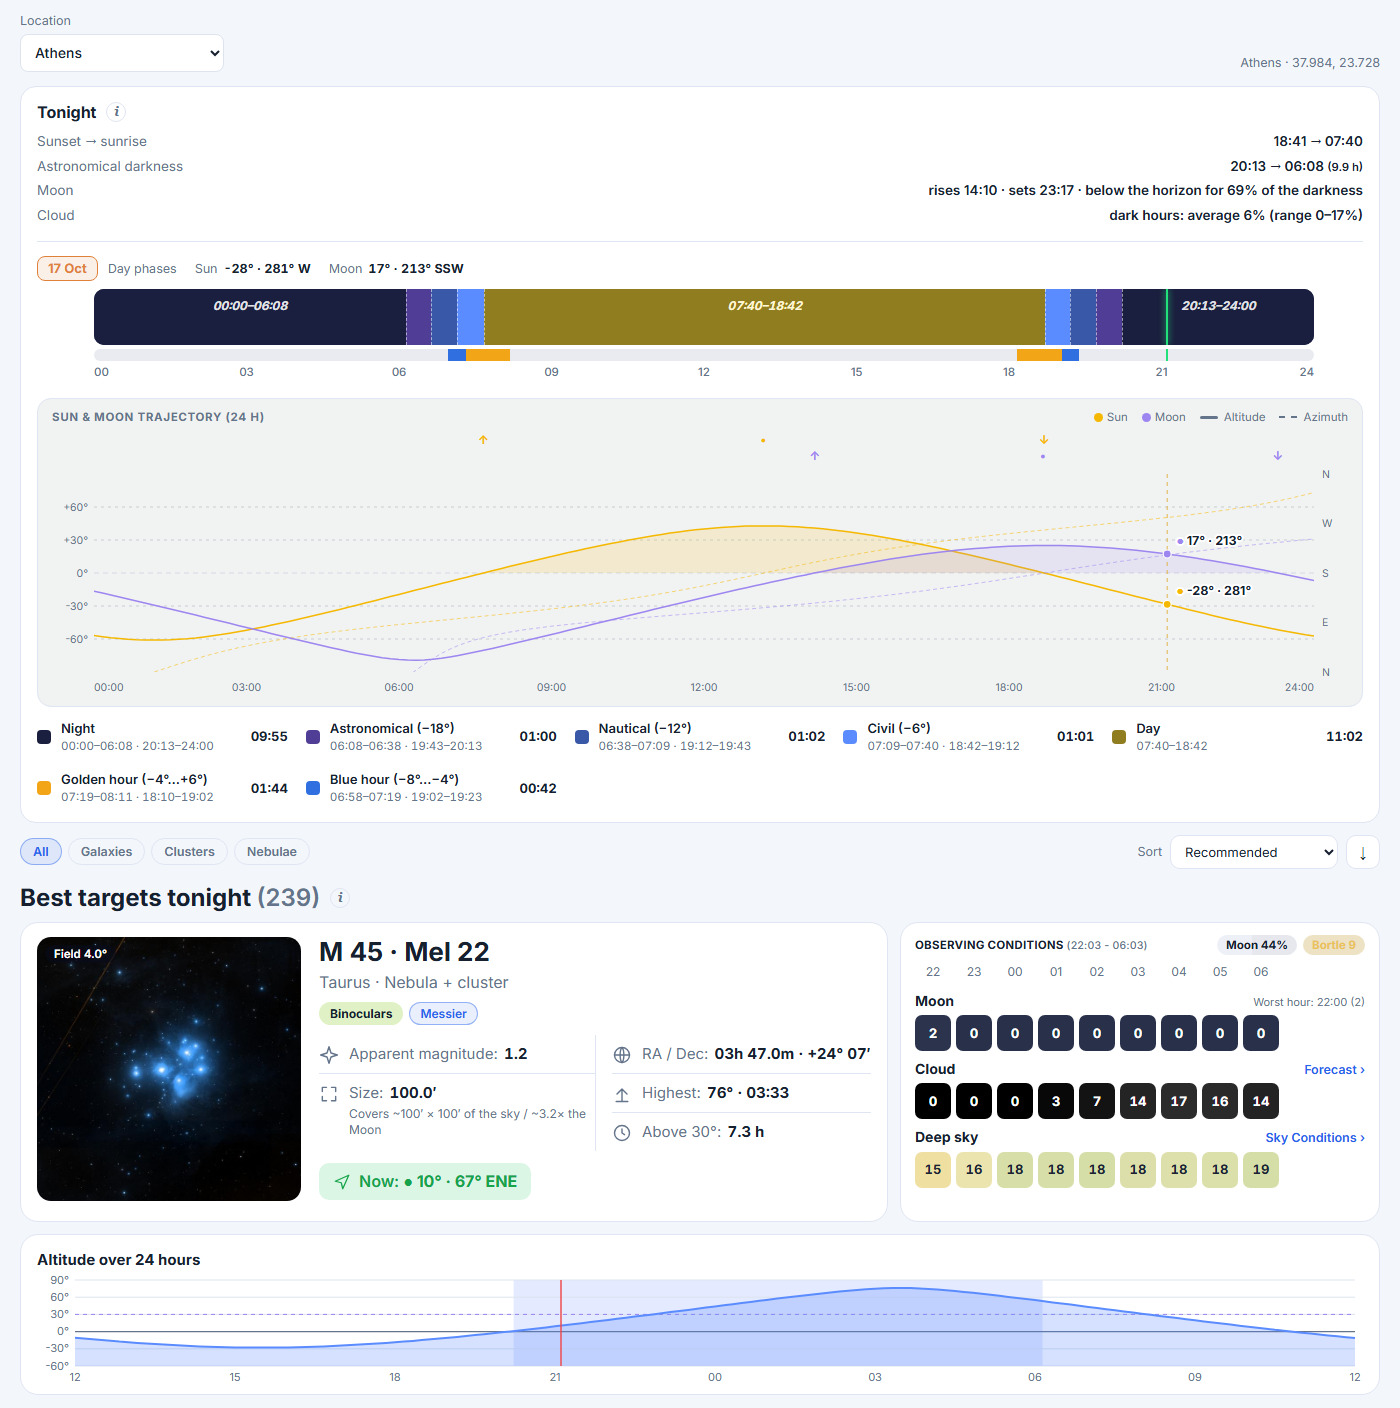
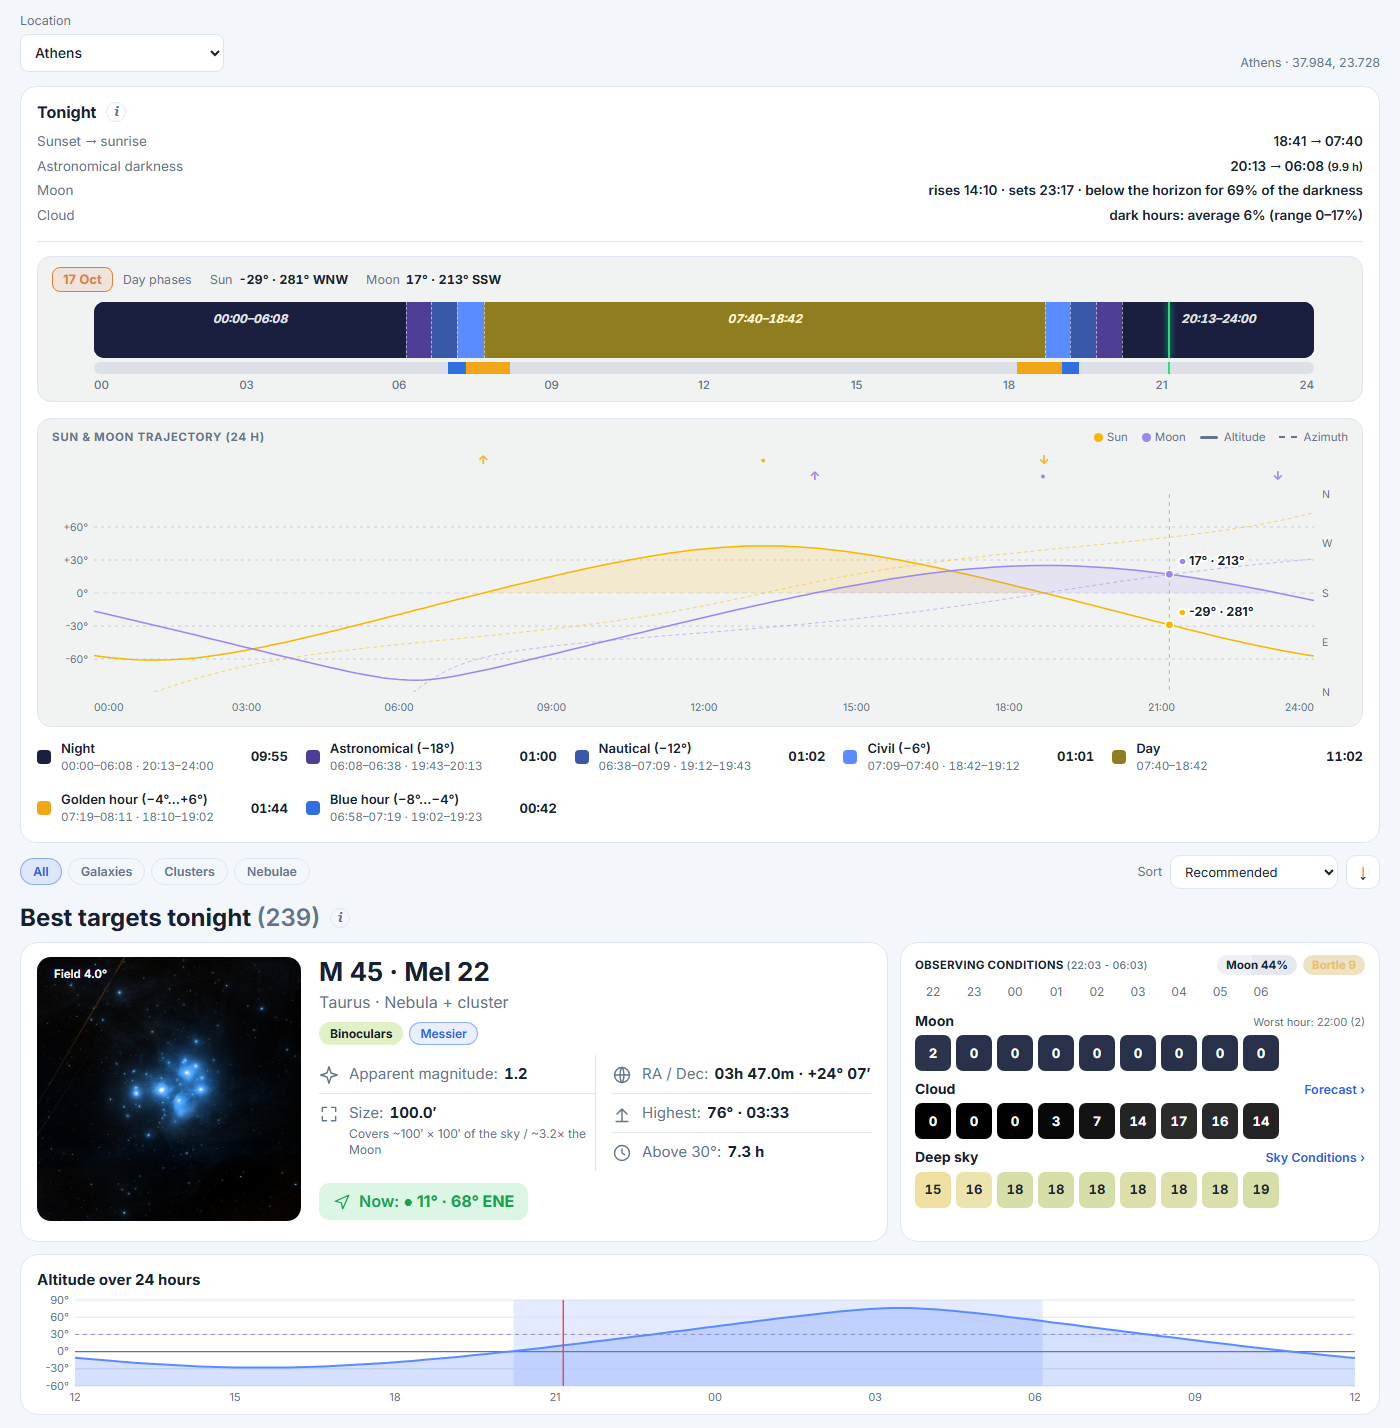
DSO phases bar in a card with the same fill as the trajectory chart (hours still line up)

diff --git a/js/dso.js b/js/dso.js
@@ -363,10 +363,10 @@ const Dso = (() => {
       const parts = arr.filter((g) => g.c === c), total = parts.reduce((a, g) => a + (g.b - g.a), 0);
       return `<li><i class="dot ph-${c}"></i><div><b>${esc(t('dso.ph.' + c))}</b><span class="rg">${parts.length ? parts.map((g) => `${fmMin(g.a)}–${fmMin(g.b)}`).join(' · ') : '–'}</span></div><span class="tot">${total ? fmMin(total) : '–'}</span></li>`;
     };
-    return `<div class="dp"><div class="dp-h"><span class="dp-date">${esc(dateTxt)}</span><small>${esc(t('dso.ph.title'))}</small><span class="dp-key"><span class="k">${esc(t('dso.ph.sun'))} <b>${bodyPos(d.now.sunAlt, d.now.sunAz)}</b></span><span class="k">${esc(t('dso.ph.moon'))} <b>${bodyPos(d.now.moonAlt, d.now.moonAz)}</b></span></span></div>
+    return `<div class="dp"><section class="tj-card ph-card"><div class="dp-h"><span class="dp-date">${esc(dateTxt)}</span><small>${esc(t('dso.ph.title'))}</small><span class="dp-key"><span class="k">${esc(t('dso.ph.sun'))} <b>${bodyPos(d.now.sunAlt, d.now.sunAz)}</b></span><span class="k">${esc(t('dso.ph.moon'))} <b>${bodyPos(d.now.moonAlt, d.now.moonAz)}</b></span></span></div>
       <div class="dp-bar">${bar}<u class="now" style="left:${clamp((d.nowMin / 1440) * 100, 0, 100).toFixed(2)}%"></u></div>
       <div class="dp-gb">${gbar}<u class="now" style="left:${clamp((d.nowMin / 1440) * 100, 0, 100).toFixed(2)}%"></u></div>
-      <div class="dp-axis">${axis}</div>
+      <div class="dp-axis">${axis}</div></section>
       <div class="tj-grid one">${trajChart(d, Math.max(300, (S.chartW || 1000) - 30), (S.chartW || 1000) < 520 ? 240 : 270)}</div>
       <ul class="dp-leg">${PH_ORDER.map((c) => leg(c, d.segs)).join('')}${leg('golden', d.gsegs)}${leg('blue', d.gsegs)}</ul></div>`;
   }

diff --git a/index.html b/index.html
@@ -9,7 +9,7 @@
 <link rel="preconnect" href="https://fonts.googleapis.com"><link rel="preconnect" href="https://fonts.gstatic.com" crossorigin>
 <link rel="stylesheet" href="https://fonts.googleapis.com/css2?family=Inter:wght@400;500;600;700&display=swap&subset=greek">
 <link rel="stylesheet" href="https://unpkg.com/leaflet@1.9.4/dist/leaflet.css">
-<link rel="stylesheet" href="css/style.css?v=20261129">
+<link rel="stylesheet" href="css/style.css?v=20261130">
 </head>
 <body>
 <header class="topbar">
@@ -252,11 +252,11 @@
 <footer data-i18n-html="footer.html"></footer>
 
 <script src="https://unpkg.com/leaflet@1.9.4/dist/leaflet.js"></script>
-<script src="js/i18n.js?v=20261129"></script>
-<script src="js/icons.js?v=20261129"></script>
-<script src="js/app.js?v=20261129"></script>
-<script src="js/astro.js?v=20261129"></script>
-<script src="js/sunset.js?v=20261129"></script>
-<script src="js/dso.js?v=20261129"></script>
+<script src="js/i18n.js?v=20261130"></script>
+<script src="js/icons.js?v=20261130"></script>
+<script src="js/app.js?v=20261130"></script>
+<script src="js/astro.js?v=20261130"></script>
+<script src="js/sunset.js?v=20261130"></script>
+<script src="js/dso.js?v=20261130"></script>
 </body>
 </html>

diff --git a/css/style.css b/css/style.css
@@ -981,3 +981,9 @@ select, input[type=text], input[type=number], input[type=search] { font: inherit
 .tj-svg .nw { stroke-width: 1; } .tj-svg .hz, .tj-svg .gl { stroke-width: .8; }
 .dp-bar, .dp-gb, .dp-axis { margin-left: 57px; margin-right: 49px; }
 @media (max-width: 900px) { .dp-bar, .dp-gb, .dp-axis { margin-left: 57px; margin-right: 49px; } }
+
+/* the phases bar lives in a card of its own, same fill and padding as the trajectory card below it: the bar then spans the chart's plot area
+   (left axis 42 px, right axis 34 px) */
+.dp-bar, .dp-gb, .dp-axis { margin-left: 42px; margin-right: 34px; }
+.ph-card { padding-bottom: 6px; } .ph-card .dp-h { margin-bottom: 10px; }
+.ph-card .dp-axis { height: 18px; }
